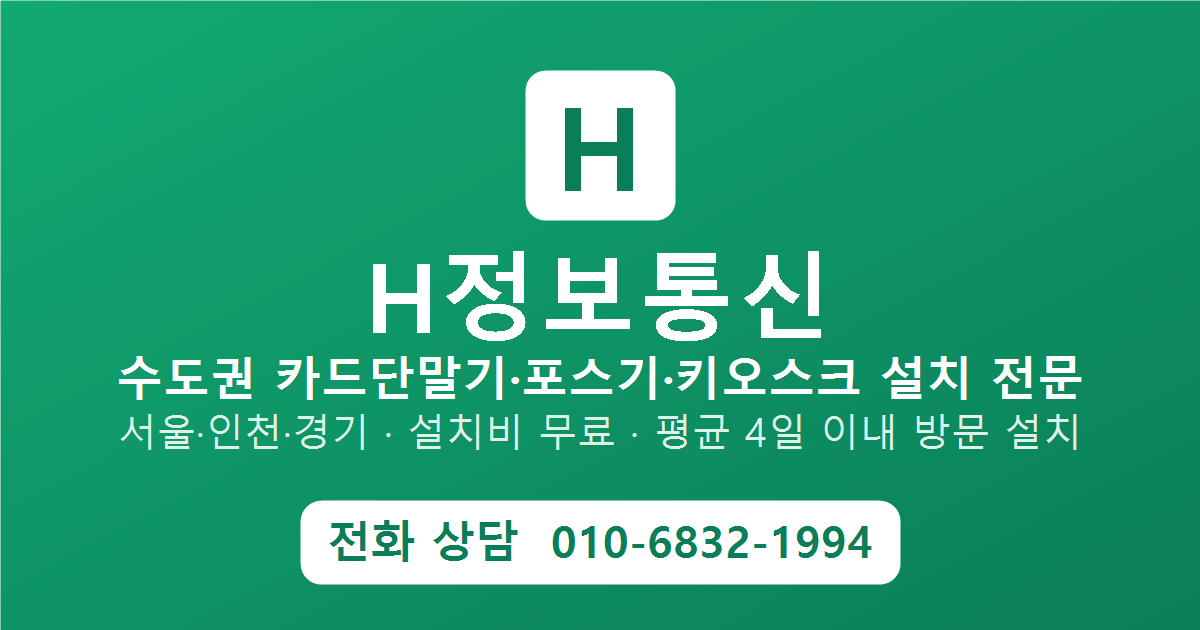
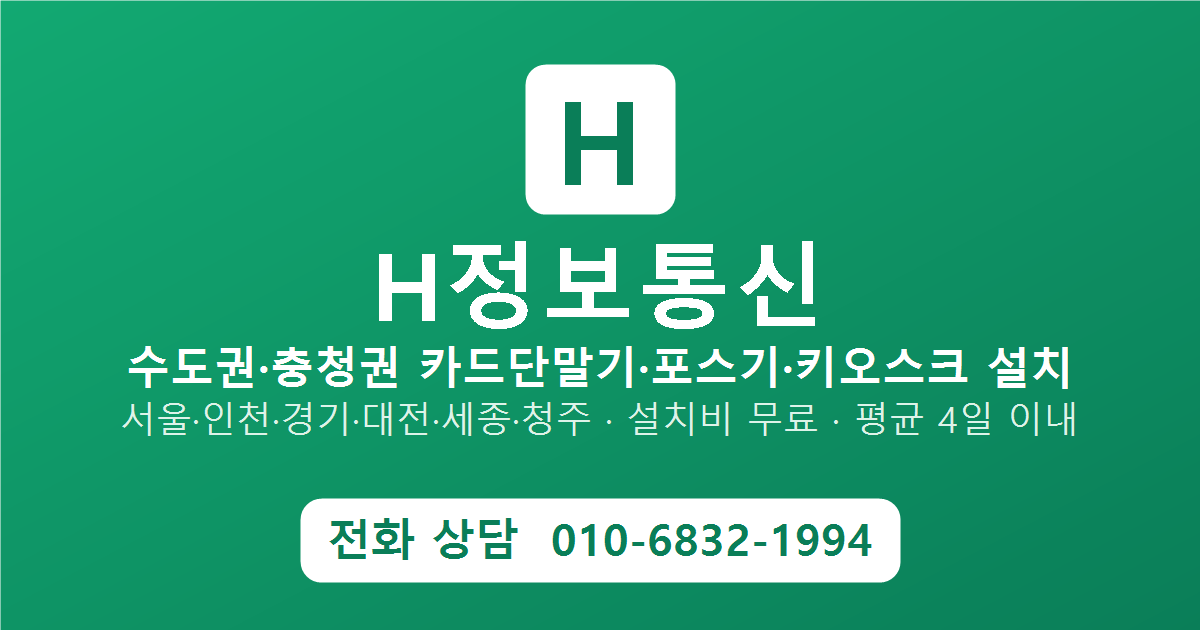
브랜딩 통일: 수도권 -> 수도권·충청권 (제목/히어로/서비스안내/SEO/OG 이미지/구조화데이터, 통계 76곳)

diff --git a/index.html b/index.html
@@ -6,15 +6,15 @@
 <link rel="icon" href="favicon.svg" type="image/svg+xml" />
 <meta property="og:type" content="website" />
 <meta property="og:site_name" content="H정보통신" />
-<meta property="og:title" content="H정보통신 — 수도권 카드단말기·포스기·키오스크 설치 전문" />
-<meta property="og:description" content="서울·인천·경기 수도권 전 지역 설치비 무료, 평균 4일 이내 방문 설치. 카드단말기·포스기·키오스크 설치 전문 H정보통신. 상담 010-6832-1994" />
+<meta property="og:title" content="H정보통신 — 수도권·충청권 카드단말기·포스기·키오스크 설치 전문" />
+<meta property="og:description" content="수도권·충청권(서울·인천·경기·대전·세종·청주) 설치비 무료, 평균 4일 이내 방문 설치. 카드단말기·포스기·키오스크 설치 전문 H정보통신. 상담 010-6832-1994" />
 <meta property="og:image" content="https://hpos.co.kr/og-image.png" />
 <meta property="og:image:width" content="1200" />
 <meta property="og:image:height" content="630" />
 <meta property="og:url" content="https://hpos.co.kr/" />
 <meta name="twitter:card" content="summary_large_image" />
-<title>H정보통신 — 수도권(서울·인천·경기) 카드단말기·포스기 설치 전문</title>
-<meta name="description" content="서울·인천·경기 수도권 전역 카드단말기·포스기·키오스크 설치 전문. 신청 후 평균 4일 이내 설치, 설치비 무료, 업계 최저 수수료. 동 단위 방문 설치." />
+<title>H정보통신 — 수도권·충청권 카드단말기·포스기 설치 전문</title>
+<meta name="description" content="수도권·충청권(서울·인천·경기·대전·세종·청주) 카드단말기·포스기·키오스크 설치 전문. 신청 후 평균 4일 이내 설치, 설치비 무료, 업계 최저 수수료. 동 단위 방문 설치." />
 <link rel="canonical" href="https://hpos.co.kr/" />
 <meta name="robots" content="index, follow, max-image-preview:large" />
 <meta name="theme-color" content="#0E9F6E" />
@@ -29,7 +29,7 @@
   "image": "https://hpos.co.kr/og-image.png",
   "url": "https://hpos.co.kr/",
   "telephone": "+82-10-6832-1994",
-  "description": "서울·인천·경기 수도권 전 지역 카드단말기·포스기·키오스크 설치 전문. 설치비 무료, 평균 4일 이내 방문 설치, 모든 카드사 일괄 가맹.",
+  "description": "수도권·충청권(서울·인천·경기·대전·세종·청주) 카드단말기·포스기·키오스크 설치 전문. 설치비 무료, 평균 4일 이내 방문 설치, 모든 카드사 일괄 가맹.",
   "priceRange": "₩₩",
   "address": {
     "@type": "PostalAddress",
@@ -39,7 +39,10 @@
   "areaServed": [
     { "@type": "City", "name": "서울특별시" },
     { "@type": "City", "name": "인천광역시" },
-    { "@type": "AdministrativeArea", "name": "경기도" }
+    { "@type": "AdministrativeArea", "name": "경기도" },
+    { "@type": "City", "name": "대전광역시" },
+    { "@type": "City", "name": "세종특별자치시" },
+    { "@type": "City", "name": "청주시" }
   ],
   "openingHoursSpecification": [
     {
@@ -328,15 +331,15 @@
   </div>
 </header>
 
-<div class="crumb"><div class="wrap">홈 › <span>수도권 (서울·인천·경기)</span></div></div>
+<div class="crumb"><div class="wrap">홈 › <span>수도권·충청권</span></div></div>
 
 <a id="top"></a>
 <section class="hero">
   <div class="wrap hero-grid">
     <div class="reveal in">
-      <span class="loc-pill">📍 수도권 전역 · 서울 · 인천 · 경기</span>
-      <h1>수도권 소상공인<br><span class="hl">카드단말기·포스기</span><br>평균 4일 이내 설치 전문</h1>
-      <p class="lead">서울·인천·경기 수도권 전 지역 동 단위로 방문 설치합니다. 신규 창업·단말기 교체 모두 설치비 무료, 업계 최저 수수료, 모든 카드사 일괄 가맹으로 처리해 드립니다.</p>
+      <span class="loc-pill">📍 수도권·충청권 전역 · 서울·인천·경기·대전·세종·청주</span>
+      <h1>수도권·충청권 소상공인<br><span class="hl">카드단말기·포스기</span><br>평균 4일 이내 설치 전문</h1>
+      <p class="lead">수도권·충청권(서울·인천·경기·대전·세종·청주) 전 지역 동 단위로 방문 설치합니다. 신규 창업·단말기 교체 모두 설치비 무료, 업계 최저 수수료, 모든 카드사 일괄 가맹으로 처리해 드립니다.</p>
       <div class="hero-cta">
         <a href="tel:01068321994" class="btn btn-primary">📞 전화 상담 010-6832-1994</a>
         <a href="#regions" class="btn btn-ghost">우리 동네 찾기</a>
@@ -366,13 +369,13 @@
   <div class="wrap">
     <div class="head reveal">
       <span class="eyebrow">Service Info</span>
-      <h2>서울·인천·경기 서비스 안내</h2>
+      <h2>수도권·충청권 서비스 안내</h2>
       <p>신청 즉시 가까운 담당 기사 배정 · 평균 4일 이내 방문 설치</p>
     </div>
     <div class="info-grid">
       <div class="info-box reveal">
         <h3>🗺️ 서비스 지역 · 운영</h3>
-        <div class="kv"><div class="k">설치 지역</div><div class="v">서울·인천·경기 수도권 전역 (동 단위 방문)</div></div>
+        <div class="kv"><div class="k">설치 지역</div><div class="v">수도권·충청권 전역 — 서울·인천·경기·대전·세종·청주 (동 단위 방문)</div></div>
         <div class="kv"><div class="k">운영 시간</div><div class="v">평일·주말 09:00 ~ 21:00</div></div>
         <div class="kv"><div class="k">설치 소요</div><div class="v">신청 후 평균 4일 이내 설치</div></div>
         <div class="kv"><div class="k">A/S</div><div class="v">24시간 장애 접수 · 무상 점검</div></div>
@@ -400,7 +403,7 @@
 
 <section class="stats" id="statsSec">
   <div class="wrap stats-grid">
-    <div class="stat"><div class="num" data-target="66" data-suffix="곳">0</div><div class="lab">수도권 시·군·구</div></div>
+    <div class="stat"><div class="num" data-target="76" data-suffix="곳">0</div><div class="lab">서비스 시·군·구</div></div>
     <div class="stat"><div class="num" data-target="18000" data-suffix="+">0</div><div class="lab">누적 설치 매장</div></div>
     <div class="stat"><div class="num" data-target="0" data-suffix="원">0</div><div class="lab">초기 설치 비용</div></div>
     <div class="stat"><div class="num" data-target="99" data-suffix="%">0</div><div class="lab">재계약 만족도</div></div>
@@ -1518,8 +1521,8 @@
 
 <section class="block seo">
   <div class="wrap reveal">
-    <h2>수도권(서울·인천·경기) 카드단말기·포스기 설치, H정보통신</h2>
-    <p class="intro">H정보통신은 서울특별시 25개 자치구, 인천광역시, 경기도 주요 도시 전역에서 카드단말기·포스기·키오스크 설치를 진행하는 전문 업체입니다. 강남·서초·송파·마포 등 서울은 물론, 인천 송도·부평·구월동, 경기 분당·일산·동탄·수원까지 수도권 동 단위로 신청 후 평균 4일 이내 방문 설치하며, 신규 창업 매장 설치부터 단말기 교체, 모든 카드사 일괄 가맹까지 한 번에 처리합니다. 아래에서 우리 지역을 확인해 보세요.</p>
+    <h2>수도권·충청권 카드단말기·포스기 설치, H정보통신</h2>
+    <p class="intro">H정보통신은 서울특별시 25개 자치구, 인천광역시, 경기도 주요 도시는 물론 대전·세종·청주 충청권까지 카드단말기·포스기·키오스크 설치를 진행하는 전문 업체입니다. 강남·서초·송파·마포 등 서울은 물론, 인천 송도·부평, 경기 분당·일산·동탄·수원, 대전 둔산·유성, 세종, 청주까지 수도권·충청권 동 단위로 신청 후 평균 4일 이내 방문 설치하며, 신규 창업 매장 설치부터 단말기 교체, 모든 카드사 일괄 가맹까지 한 번에 처리합니다. 아래에서 우리 지역을 확인해 보세요.</p>
       <div class="seo-gu">
         <h4>강남구</h4>
         <div class="kw"><span>강남구 카드단말기</span><span>강남구 포스기</span><span>강남구 포스 설치</span><span>강남구 키오스크 설치</span><span>역삼동 카드단말기</span><span>삼성동 카드단말기</span><span>논현동 카드단말기</span><span>대치동 카드단말기</span><span>청담동 카드단말기</span><span>신사동 카드단말기</span><span>압구정동 카드단말기</span><span>개포동 카드단말기</span><span>도곡동 카드단말기</span><span>수서동 카드단말기</span><span>일원동 카드단말기</span><span>세곡동 카드단말기</span><span>역삼동 포스기</span><span>삼성동 포스기</span><span>논현동 포스기</span><span>대치동 포스기</span><span>청담동 포스기</span><span>신사동 포스기</span><span>압구정동 포스기</span><span>개포동 포스기</span><span>도곡동 포스기</span><span>수서동 포스기</span><span>일원동 포스기</span><span>세곡동 포스기</span></div>